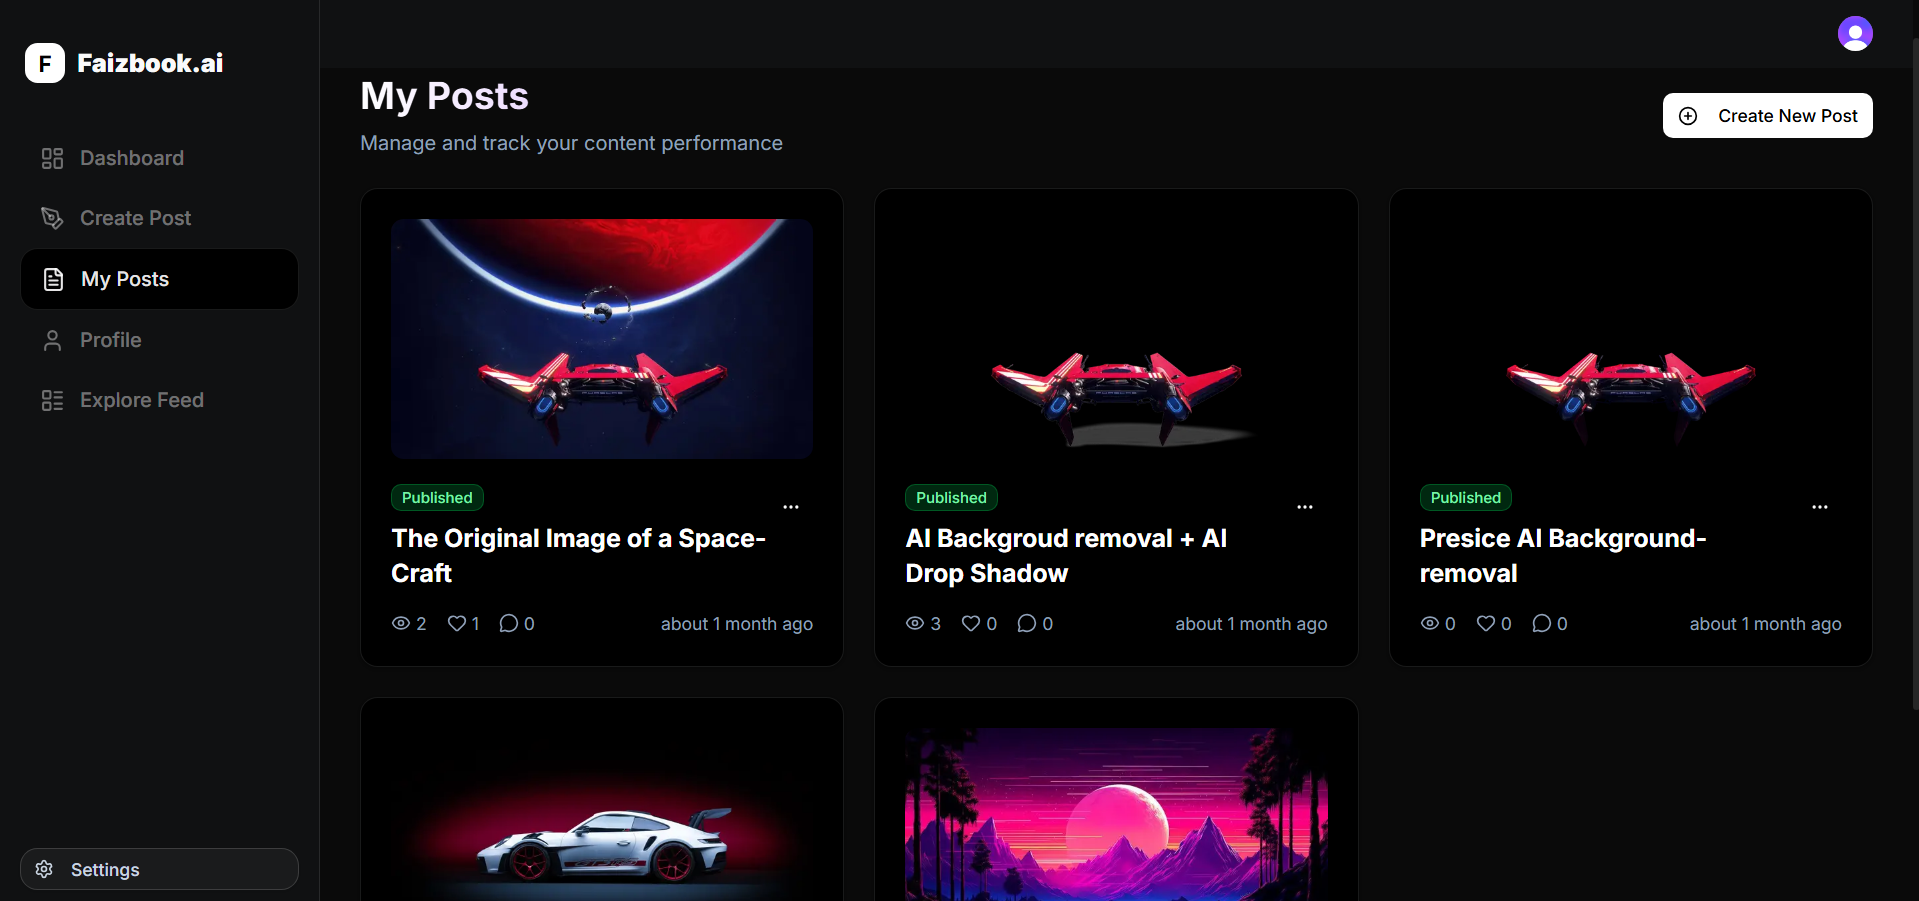
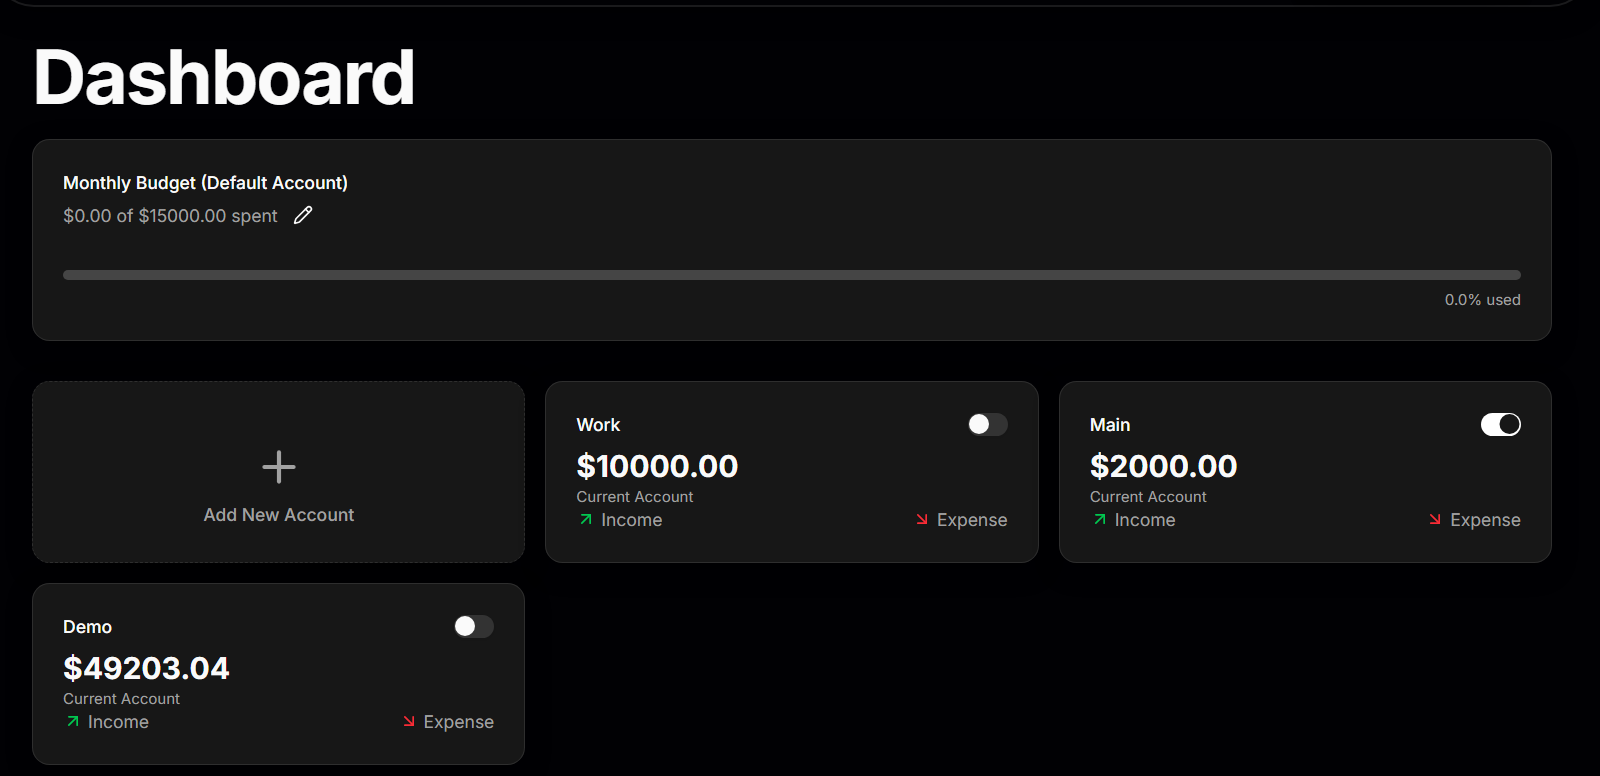
.

diff --git a/data/capability.js b/data/capability.js
@@ -2,28 +2,28 @@ export const capabilities = [
     {
         id: 1,
         title: "Client Hub",
-        description: "Store client info, notes, files, and ongoing work in one clean view.",
+        description: "Store client info and  transactions in one clean view.",
         illustration: "/images/client.png",
         icon: "users"
     },
     {
         id: 2,
-        title: "Project Board",
-        description: "Track tasks and deadlines with a simple board and timeline view.",
+        title: "Email Alerts",
+        description: "Emails users monthly summaries of their total income and expenses",
         illustration: "/images/project.png",
         icon: "calendar"
     },
     {
         id: 3,
-        title: "Team View",
-        description: "See who's doing what and balance workload across your team.",
+        title: "Transaction Board",
+        description: "Track transactions with a simple UI and timeline view.",
         illustration: "/images/team.png",
         icon: "zap"
     },
     {
         id: 4,
-        title: "Invoices",
-        description: "Create and send simple invoices and track what's paid.",
+        title: "Snap & Track Receipts",
+        description: "Take a photo of any receipt and we'll extract the details automatically",
         illustration: "/images/invoices.png",
         icon: "file"
     }
@@ -65,8 +65,8 @@ export const AVATAR_ITEMS = [
 export const stats = [
     {
         id: 1,
-        value: "3k+",
-        label: "freelancers",
+        value: "10k+",
+        label: "users",
         avatars: [
             "/images/avatars/avatar1.jpg",
             "/images/avatars/avatar2.jpg",
@@ -77,11 +77,11 @@ export const stats = [
     },
     {
         id: 2,
-        value: "1.2M+",
+        value: "100k+",
         label: "Sends",
-        description: "Create and send simple invoices and track what's paid.",
+        description: "already uploaded Receipt and tracked their expense",
         button: {
-            text: "Create invoice",
+            text: "Create your one",
             href: "#"
         }
     }

diff --git a/components/section/cta.jsx b/components/section/cta.jsx
@@ -66,7 +66,7 @@ const Cta = () => {
                                     }}
                                     className="absolute inset-0 bg-primary/40 rounded-2xl blur-2xl"
                                 />
-                                <Icons.wordmarkGradient className="h-6 text-foreground/90" />
+                                 <img src="/logo.png" className="md:h-10 h-8 w-auto" alt="logo" />
                             </motion.div>
 
                             <motion.h2
@@ -78,7 +78,7 @@ const Cta = () => {
                             >
                                 The better way to
                                 <br />
-                                manage your work
+                                manage your Accounts
                             </motion.h2>
 
                             <motion.p
@@ -88,7 +88,7 @@ const Cta = () => {
                                 transition={{ duration: 0.6, delay: 0.4 }}
                                 className="text-base md:text-lg text-muted-foreground mt-6 max-w-2xl"
                             >
-                                Join other freelancers and agencies <br /> organizing their business today
+                                See where your money actually goes, set budgets that make sense<br />  and finally feel incontrolled expense.
                             </motion.p>
 
                             <motion.div
@@ -101,7 +101,7 @@ const Cta = () => {
                             >
                                 <Link href={Routes.Dashboard}>
                                     <Button size="lg" className="text-base">
-                                        Start for free
+                                        Start Tracking today
                                     </Button>
                                 </Link>
                             </motion.div>

diff --git a/components/section/footer.jsx b/components/section/footer.jsx
@@ -28,10 +28,10 @@ const Footer = () => {
                 <div className="grid grid-cols-1 lg:grid-cols-12 gap-8 lg:gap-16">
                     <div className="lg:col-span-4">
                         <Link href="/" className="inline-block">
-                            <Icons.wordmark className="h-5 w-auto text-foreground" />
+                             <img src="/logo.png" className="md:h-10 h-8 w-auto" alt="logo" />
                         </Link>
                         <p className="text-sm text-muted-foreground mt-4 max-w-xs">
-                            Simple workspace for teams
+                            Simple workspace for Everyone
                         </p>
                     </div>
 
@@ -96,7 +96,7 @@ const Footer = () => {
 
                 <div className="flex flex-col md:flex-row items-center justify-between gap-4 mt-12 pt-8 border-t border-foreground/5">
                     <p className="text-sm text-muted-foreground">
-                        © {new Date().getFullYear()} Avento. All rights reserved.
+                        © {new Date().getFullYear()} Xpnese. All rights reserved.
                     </p>
 
                     <div className="flex items-center gap-4">

diff --git a/components/section/capability.jsx b/components/section/capability.jsx
@@ -36,7 +36,7 @@ const Capibilities = () => {
                         viewport={{ once: true }}
                         transition={{ duration: 0.3, delay: 0.3 }}
                     >
-                        Clients, projects, tasks, and invoices in one clean interface
+                        You don't need another complicated finance app
                     </motion.p>
                 </div>
 
@@ -207,7 +207,7 @@ const Capibilities = () => {
                                     {stats[0]?.value} {stats[0]?.label}
                                 </h3>
                                 <p className="text-sm text-muted-foreground mt-1">
-                                    already using Avento
+                                    already using Xpense
                                 </p>
                             </div>
                         </motion.div>

diff --git a/data/footer.js b/data/footer.js
@@ -25,9 +25,9 @@ export const NAV_LINKS = [
 
 export const footerLinks = {
     product: [
-        { label: "Features", href: "#capabilities" },
-        { label: "Integrations", href: "#integrations" },
-        { label: "Pricing", href: "#membership" },
+        { label: "Features", href: "#" },
+        { label: "Integrations", href: "#" },
+        { label: "Pricing", href: "#" },
         { label: "Changelog", href: "#" }
     ],
     resources: [
@@ -48,5 +48,5 @@ export const socialLinks = [
     { label: "X", href: "https://x.com", icon: "x" },
     { label: "GitHub", href: "https://github.com", icon: "github" },
     { label: "LinkedIn", href: "https://linkedin.com", icon: "linkedin" },
-    { label: "Cursor", href: "https://cursor.com", icon: "cursor" }
+    // { label: "Cursor", href: "https://cursor.com", icon: "cursor" }
 ];

diff --git a/components/section/difference.jsx b/components/section/difference.jsx
@@ -84,7 +84,7 @@ const Difference = () => {
                                 viewport={{ once: true }}
                                 transition={{ duration: 0.5, delay: 0.4 }}
                             >
-                                Avento
+                                Xpense
                             </motion.h3>
 
                             <div className="space-y-3 relative">

diff --git a/data/workflow.js b/data/workflow.js
@@ -12,6 +12,6 @@ export const WORKFLOW_STEPS = [
     {
         number: "3",
         title: "Understand Your Money",
-        description: "Track progress, share updates, and deliver work on time",
+        description: "Check your dashboard to see where your money goes",
     },
 ];
